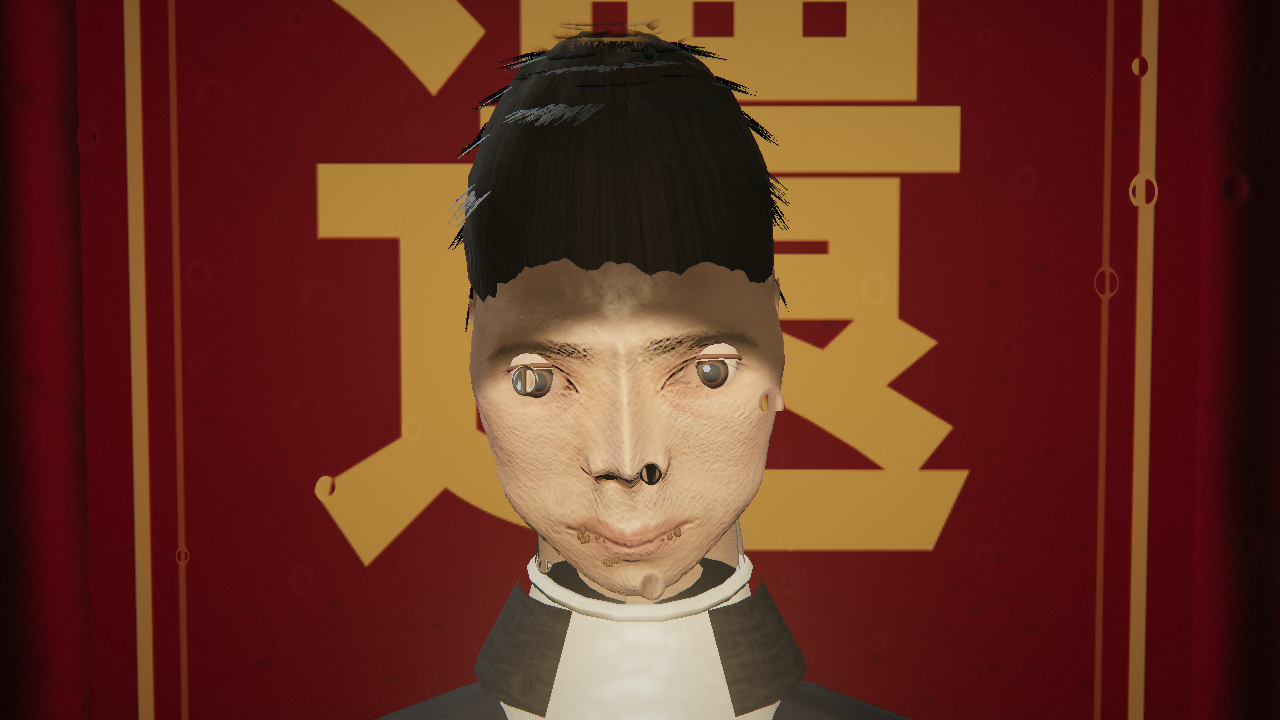
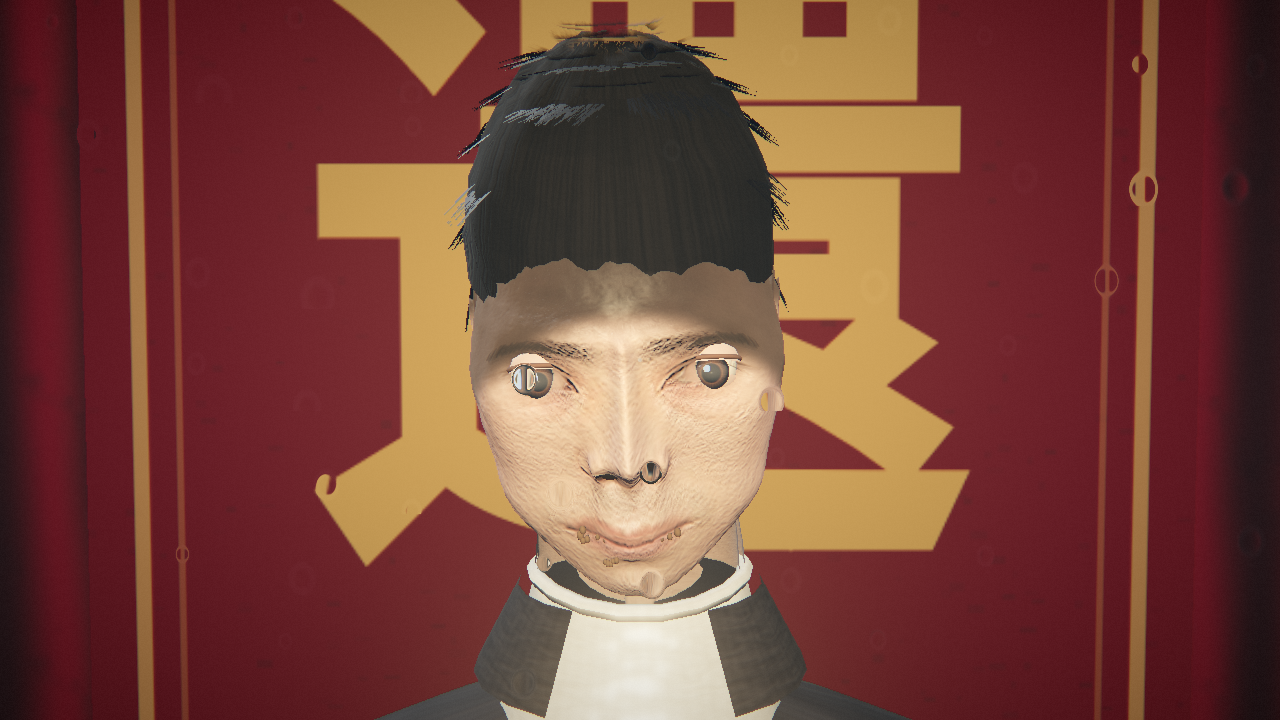
轮24八稿·D形奶油斑终极真凶=环境贴图镜像:裸眼球检验(藏头皮+睑+AO)左眼虹膜上仍有硬边奶油D斑、右眼纯净——宴会厅黄色「還」字横幅经角膜/巩膜低粗糙清漆层整片映在眼球上(视角刀锋敏感/左右不对称/藏角膜后巩膜清漆继续反射=历轮二分全不消的原因);①湿层全改模糊镜——角膜粗糙0.06→0.16环反射0.38→0.22清漆糙0.1→0.3,巩膜清漆0.28→0.15糙0.3→0.5环反射0.28→0.18,虹膜环反射0.12→0.06(虹膜不做镜);捕捉光点MeshBasic不受影响,眼仍是湿的;②r24机位真3D头朝向——数值转储offAxis=11.12°:idle头上仰8.3°+相机

diff --git a/src/entities/humanoid.js b/src/entities/humanoid.js
@@ -2175,9 +2175,13 @@ export class Humanoid {
     // 解剖比（≈眼球一半），巩膜在两眦真的露出来——纯黑玻璃珠从此非法
     // 轮24·去灯泡眼：巩膜反射再压两档（顶光/聚光下整球泛灰白=「金属珠眼」元凶）——
     // 眼睛的「湿」只留给角膜壳与捕捉光点；巩膜自己是偏暖的哑骨白
+    // 轮24八稿·「单片眼镜/D形奶油斑」终极真凶=环境贴图镜像：宴会厅黄色「還」字
+    // 横幅经角膜/巩膜的低粗糙清漆层整片映在眼球上，读成硬边奶油斑（视角刀锋敏感、
+    // 左右眼不对称、藏角膜后巩膜清漆继续反射——历轮二分「全不消」的原因）。
+    // 湿层全改「模糊镜」：清漆减半+粗糙抬档——环境映影糊成柔和水光，锐利鬼影出局
     const scleraMat = pick(Mtl('scleraWet', () => new THREE.MeshPhysicalMaterial({
-      color: 0xcfc2b1, roughness: 0.46, envMapIntensity: 0.28,
-      clearcoat: 0.28, clearcoatRoughness: 0.3,
+      color: 0xcfc2b1, roughness: 0.5, envMapIntensity: 0.18,
+      clearcoat: 0.15, clearcoatRoughness: 0.5,
     })));
     // 虹膜盘材质：贴图带色环+瞳孔；emissive 通道保留给潮光（sightjack 发光）
     const irisTint = (seed % 3 === 0) ? 0x6a4526 : 0x53341e; // 深褐/暖褐两档
@@ -2185,7 +2189,8 @@ export class Humanoid {
       // 轮24四稿：粗糙 0.6→0.75、环反射 0.3→0.12——正面暖光下虹膜盘的漫反射
       // 高光把深褐洗成灰蓝（emcee「雾眼」）；虹膜自己只出「色」，光交给角膜/光点
       map: irisTexture(irisTint), transparent: true, roughness: 0.75,
-      envMapIntensity: 0.12, emissive: 0x4a6a70, emissiveIntensity: 0,
+      envMapIntensity: 0.06, emissive: 0x4a6a70, emissiveIntensity: 0, // 轮24八稿：0.12→0.06 虹膜不做镜
+      
       // 虹膜盘是正对相机的平面：镜面反射一大就整盘糊白（白珠眼回魂）——
       // 湿光交给角膜壳与捕捉光点，虹膜自己只出「色」
       depthWrite: false,
@@ -2223,8 +2228,10 @@ export class Humanoid {
       // 轮24：opacity 0.1→0.05、环反射 1.1→0.5、清漆 1.0→0.7——聚光下角膜壳
       // 整面糊成灰镜=「虹膜被洗掉的金属球」另一半元凶；湿高光留一点就够
       // 轮24四稿：环反射 0.5→0.38——暖聚光正面机位下角膜仍把虹膜洗成灰盘
-      color: 0xffffff, transparent: true, opacity: 0.05, roughness: 0.06,
-      envMapIntensity: 0.38, clearcoat: 0.7, clearcoatRoughness: 0.1,
+      // 轮24八稿：粗糙 0.06→0.16、环反射 0.38→0.22、清漆糙 0.1→0.3——
+      // 角膜是模糊的湿镜：横幅/招牌不许在眼球上映出硬边色块（D形奶油斑根治）
+      color: 0xffffff, transparent: true, opacity: 0.05, roughness: 0.16,
+      envMapIntensity: 0.22, clearcoat: 0.7, clearcoatRoughness: 0.3,
       depthWrite: false,
     })));
     // 捕捉光点：角膜上永远亮着的一粒（暗厅里眼睛也得是「湿」的——活人证据第一条）
